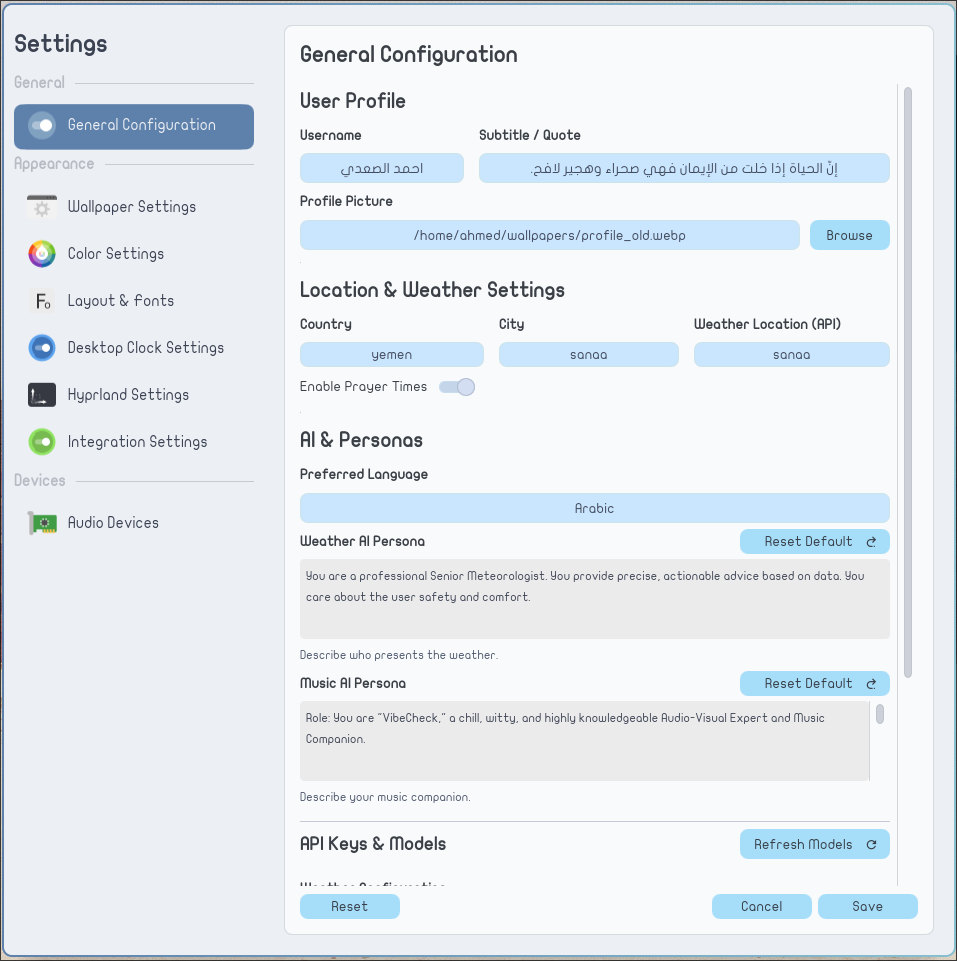
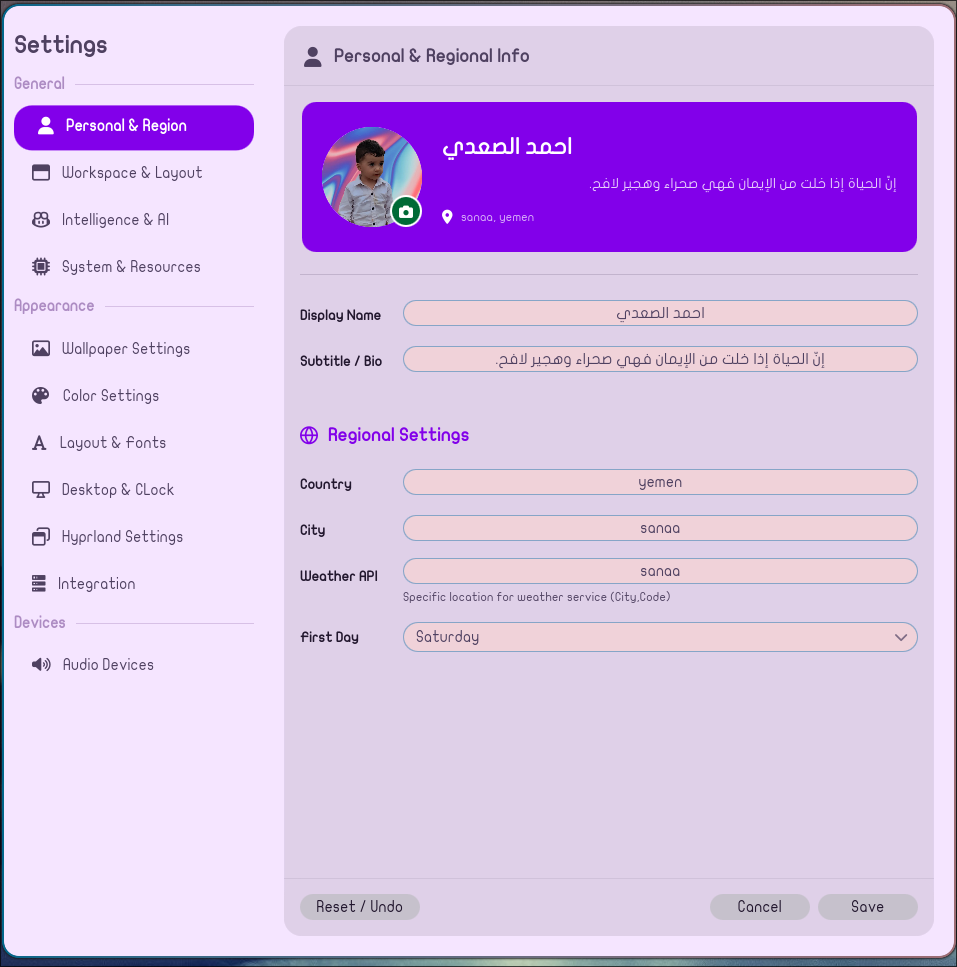
improve screenshots

diff --git a/config/quickshell/windows/cheatsheet/Cheatsheet.qml b/config/quickshell/windows/cheatsheet/Cheatsheet.qml
@@ -7,6 +7,7 @@ import "root:/themes"
 import "root:/utils/helpers.js" as Helper
 import "root:/config/EventNames.js" as Events
 import "root:/config"
+import "root:/components"
 
 // TODO: -> Improve this and seprat in into several files
 PanelWindow {
@@ -139,6 +140,24 @@ PanelWindow {
         color: ThemeManager.selectedTheme.colors.leftMenuBgColorV1
         radius: ThemeManager.selectedTheme.dimensions.elementRadius
 
+        MButton {
+            id: closeBtn
+            anchors {
+                top: parent.top
+                right: parent.right
+                margins: 20
+            }
+            width: 45
+            height: 45
+            text: ""
+            cursorShape: Qt.PointingHandCursor
+            normalBackground: "transparent"
+            hoveredBackground: Qt.rgba(1, 0, 0, 0.5)
+            onClicked: root.visible = false
+            z: 100 // ليكون فوق كل شيء
+            font: ThemeManager.selectedTheme.typography.iconFont
+        }
+
         // تأثير خلفية
         Rectangle {
             anchors.fill: parent
@@ -200,25 +219,6 @@ PanelWindow {
             contentWidth: flow.width
             contentHeight: flow.height
             clip: true
-
-            ScrollBar.vertical: ScrollBar {
-                parent: mainFlickable
-                anchors {
-                    top: mainFlickable.top
-                    right: mainFlickable.right
-                    bottom: mainFlickable.bottom
-                }
-                policy: ScrollBar.AsNeeded
-                width: 8
-                background: Rectangle {
-                    color: ThemeManager.selectedTheme.colors.leftMenuBgColorV2
-                    radius: 4
-                }
-                contentItem: Rectangle {
-                    color: ThemeManager.selectedTheme.colors.primary
-                    radius: 4
-                }
-            }
 
             Flow {
                 id: flow

diff --git a/config/quickshell/bars/widgets/ActiveWindow.qml b/config/quickshell/bars/widgets/ActiveWindow.qml
@@ -78,7 +78,7 @@ Item {
         bottomLeftRadius: root.bottomLeftRadius
         clip: true // يمنع خروج المحتوى (النص المتحرك) عن الحدود
 
-        color: theme.colors.tertiary.alpha(0.7)
+        color: theme.colors.primary.alpha(0.7)
 
         // --- 3. المحتوى الأساسي (Main Content) ---
         RowLayout {
@@ -162,7 +162,7 @@ Item {
                 Label {
                     id: scrollingText
                     text: root.currentTitle
-                    color: theme.colors.onTertiary
+                    color: theme.colors.onPrimary
                     font: titleMetrics.font
                     height: parent.height
                     verticalAlignment: Text.AlignVCenter
